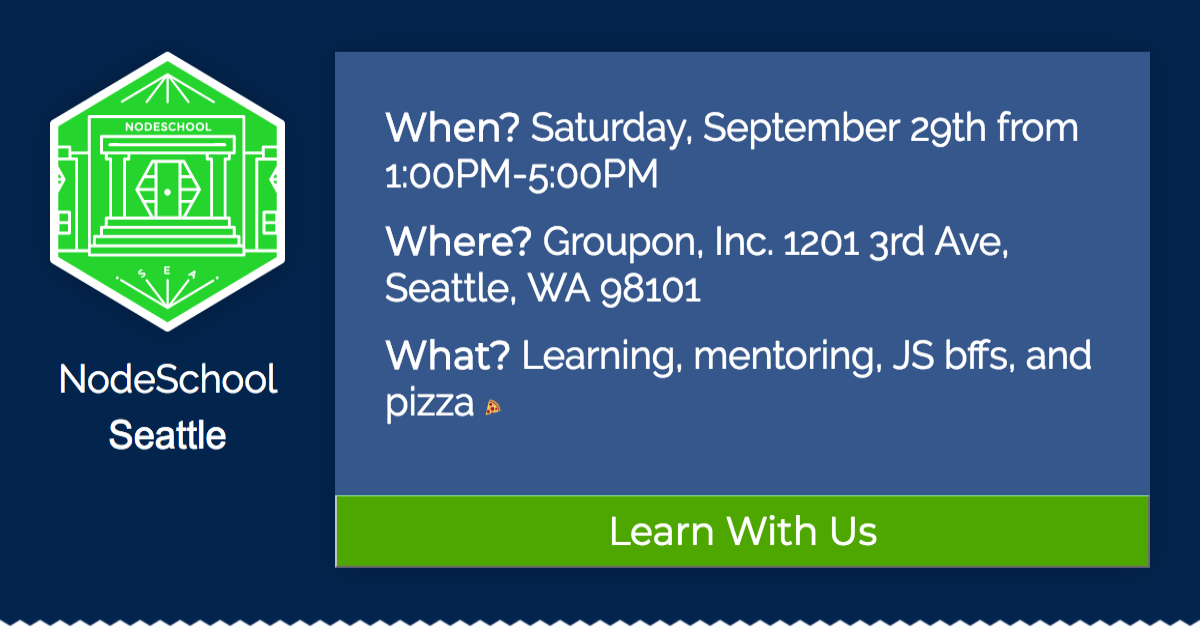
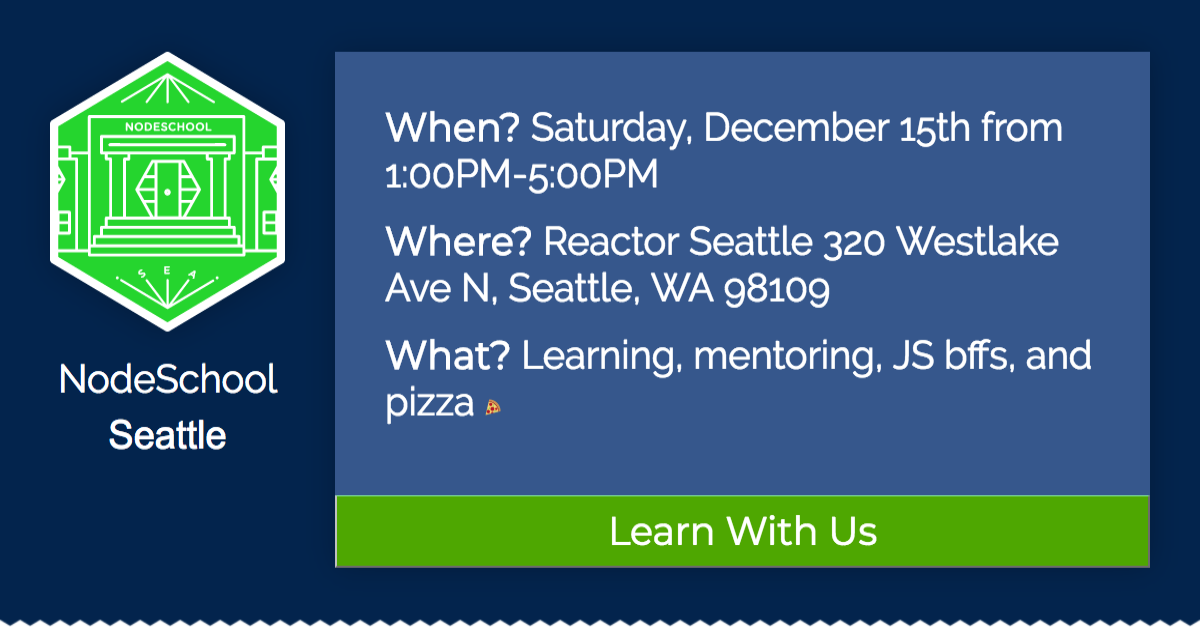
Updating site for NodeSchool Seattle - Dec 2018 (#76)

Changed region(s): [[0.3083, 0.3619, 0.8942, 0.4825], [0.5858, 0.181, 0.8942, 0.2413]]

diff --git a/docs/index.html b/docs/index.html
@@ -7,14 +7,14 @@
     <meta property="og:type" content="website" />
     <meta property="og:description" content="NodeSchool Seattle is a meetup dedicated to helping people learn JavaScript." />
     <meta property="og:url" content="https://nodeschool.io/seattle/" />
-    <meta property="og:image" content="https://nodeschool.io/seattle/images/social.png?t=1537317126545" />
+    <meta property="og:image" content="https://nodeschool.io/seattle/images/social.png?t=1542585380998" />
     <!--Twitter-->
     <meta name="twitter:card" content="summary">
     <meta name="twitter:site" content="@nodeschool_sea">
     <meta name="twitter:creator" content="@nodeschool_sea">
     <meta name="twitter:title" content="NodeSchool Seattle">
     <meta name="twitter:description" content="NodeSchool Seattle is a meetup dedicated to helping people learn JavaScript.">
-    <meta name="twitter:image" content="https://nodeschool.io/seattle/images/social.png?t=1537317126545">
+    <meta name="twitter:image" content="https://nodeschool.io/seattle/images/social.png?t=1542585380998">
     <title>NodeSchool Seattle</title>
     <link rel="stylesheet" href="./styles/index.css" />
     <link rel="icon" href="./images/favicon.png" type="image/png" />
@@ -61,13 +61,13 @@
 
           <div class="next-event">
             <div class="next-event__description">
-              <h2 class="next-event__heading">Our Next Event is on September 29th</h2>
+              <h2 class="next-event__heading">Our Next Event is on December 15th</h2>
               <ul class="next-event__info">
                 <li class="next-event__info__item">
-                  <strong class="strong--alt">When?</strong> Saturday, September 29th from 1:00PM-5:00PM
+                  <strong class="strong--alt">When?</strong> Saturday, December 15th from 1:00PM-5:00PM
                 </li>
                 <li class="next-event__info__item">
-                  <strong class="strong--alt">Where?</strong> Groupon, Inc. 1201 3rd Ave, Seattle, WA 98101 [<a href="http://maps.google.com/?q=1201%203rd%20Ave%2C%20Seattle%2C%20WA%2098101">map</a>]
+                  <strong class="strong--alt">Where?</strong> Reactor Seattle 320 Westlake Ave N, Seattle, WA 98109 [<a href="http://maps.google.com/?q=320%20Westlake%20Ave%20N%2C%20Seattle%2C%20WA%2098109">map</a>]
                 </li>
                 <li class="next-event__info__item">
                   <strong class="strong--alt">What?</strong> Learning, mentoring, JS bffs, and pizza <img src="./images/pizza-emoji.png" class="emoji" alt="pizza emoji">
@@ -75,9 +75,9 @@
               </ul>
             </div>
             <nav class="next-event__links">
-              <a class="next-event__links__learner next-event__links__link button" href="https:&#x2F;&#x2F;www.meetup.com&#x2F;Seattle-NodeSchool&#x2F;events&#x2F;254805374&#x2F;">
+              <a class="next-event__links__learner next-event__links__link button" href="https:&#x2F;&#x2F;www.meetup.com&#x2F;Seattle-NodeSchool&#x2F;events&#x2F;256529364&#x2F;">
                 Sign up as a Learner
-              </a><a class="next-event__links__mentor next-event__links__link button" href="https:&#x2F;&#x2F;github.com&#x2F;nodeschool&#x2F;seattle&#x2F;issues&#x2F;72">
+              </a><a class="next-event__links__mentor next-event__links__link button" href="https:&#x2F;&#x2F;github.com&#x2F;nodeschool&#x2F;seattle&#x2F;issues&#x2F;75">
                 Sign up as a Mentor
               </a>
             </nav>
@@ -91,7 +91,7 @@
           <h3 class="focused__subheading">NodeBots</h3>
           <p>Host Gaius Baltar will be leading a demonstration of how to make an LED blink with Node.</p>
           <p>Registration will be limited to twenty attendees.</p>
-          <p><a href="https:&#x2F;&#x2F;www.meetup.com&#x2F;Seattle-NodeSchool&#x2F;events&#x2F;254805374&#x2F;" class="button focused__register">Register now!</a></p>
+          <p><a href="https:&#x2F;&#x2F;www.meetup.com&#x2F;Seattle-NodeSchool&#x2F;events&#x2F;256529364&#x2F;" class="button focused__register">Register now!</a></p>
         </div>
       </section>
 
@@ -152,7 +152,7 @@
                 <ul><li>Having also completed some elective workshoppers is a great bonus.</li></ul>
                 <li>Review the <a href="https://github.com/nodeschool/organizers/wiki/Event-Mentor-Best-Practices">Mentor Best Practices</a> wiki page.</li>
                 <li>Arrive 30 minutes early (12:30p) so we can get setup and have our mentor meeting.</li>
-                <li>Sign up on <a href="https:&#x2F;&#x2F;github.com&#x2F;nodeschool&#x2F;seattle&#x2F;issues&#x2F;72">the event's GitHub issue</a>!</li>
+                <li>Sign up on <a href="https:&#x2F;&#x2F;github.com&#x2F;nodeschool&#x2F;seattle&#x2F;issues&#x2F;75">the event's GitHub issue</a>!</li>
               </ul>
             </dd>
 

diff --git a/docs/social.html b/docs/social.html
@@ -23,10 +23,10 @@
             <div class="next-event__description">
               <ul class="next-event__info">
                 <li class="next-event__info__item">
-                  <strong class="strong--alt">When?</strong> Saturday, September 29th from 1:00PM-5:00PM
+                  <strong class="strong--alt">When?</strong> Saturday, December 15th from 1:00PM-5:00PM
                 </li>
                 <li class="next-event__info__item">
-                  <strong class="strong--alt">Where?</strong> Groupon, Inc. 1201 3rd Ave, Seattle, WA 98101
+                  <strong class="strong--alt">Where?</strong> Reactor Seattle 320 Westlake Ave N, Seattle, WA 98109
                 </li>
                 <li class="next-event__info__item">
                   <strong class="strong--alt">What?</strong> Learning, mentoring, JS bffs, and pizza <img src="./images/pizza-emoji.png" class="emoji" alt="pizza emoji">
